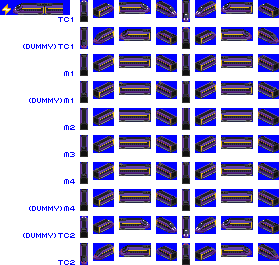
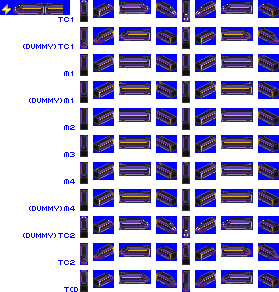
2025.08.16 / 1.65 / #682

diff --git a/README.md b/README.md
@@ -8,7 +8,8 @@
 [Github release 페이지](https://github.com/DTS-NewGRF/DTS/releases)와 인게임 온라인 컨텐츠에서 다운받을 수 있습니다.<br>
 
 ## 최근 등록 프리 릴리즈
-[1.65] 2025.07.14 이후 공개
+[1.65] 2025.08.16 <br>
+* [열차변경] SRT-320 중련용 그래픽 추가 (8bpp) ([#682](https://github.com/DTS-NewGRF/DTS/issues/682))
 
 ## 최근 등록 릴리즈
 [1.64] 2025.07.13 <br>

diff --git a/docs/changelog.md b/docs/changelog.md
@@ -1,3 +1,7 @@
+[1.65] 2025.08.16
+[변경]
+- [청룡] SRT 320 도색 중련 연결차량 도색
+
 [1.64] 2025.07.13
 [추가]
 - [HYEL-강산] 6, 8량 추가
